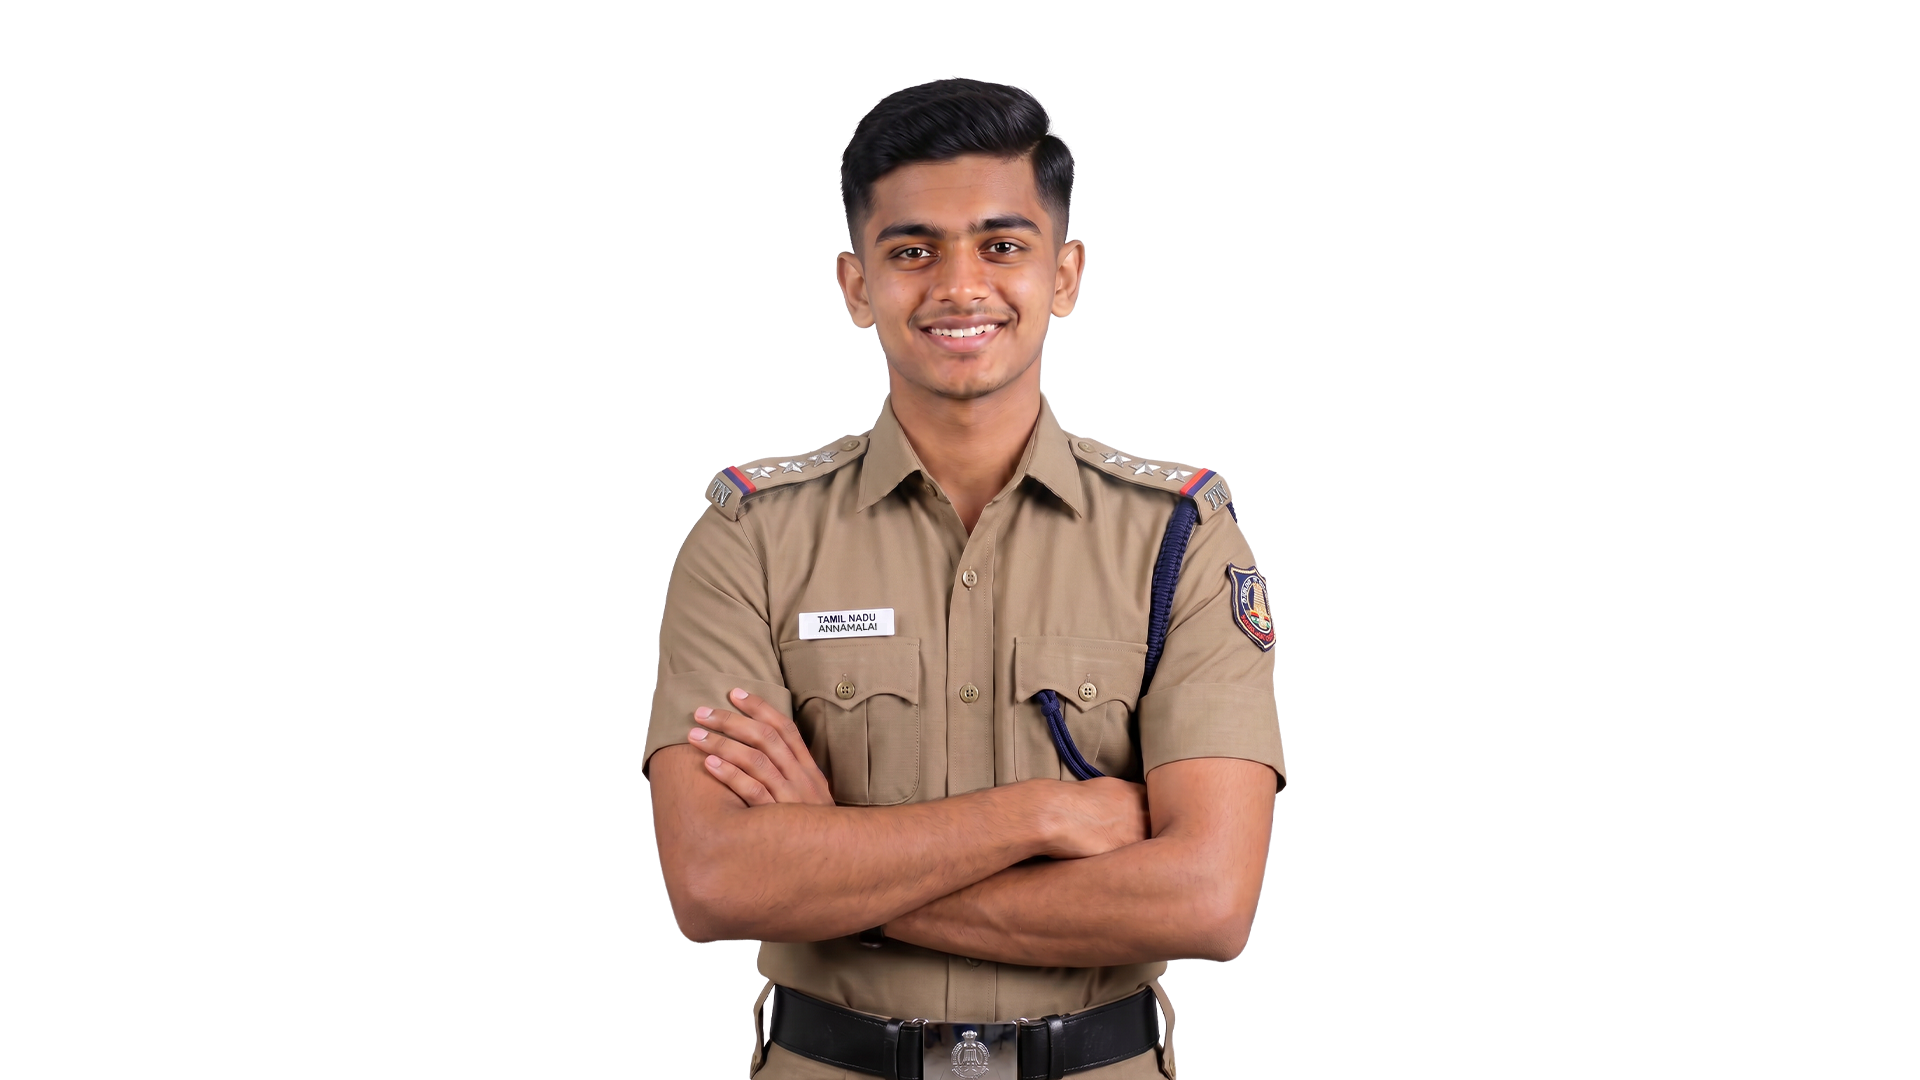
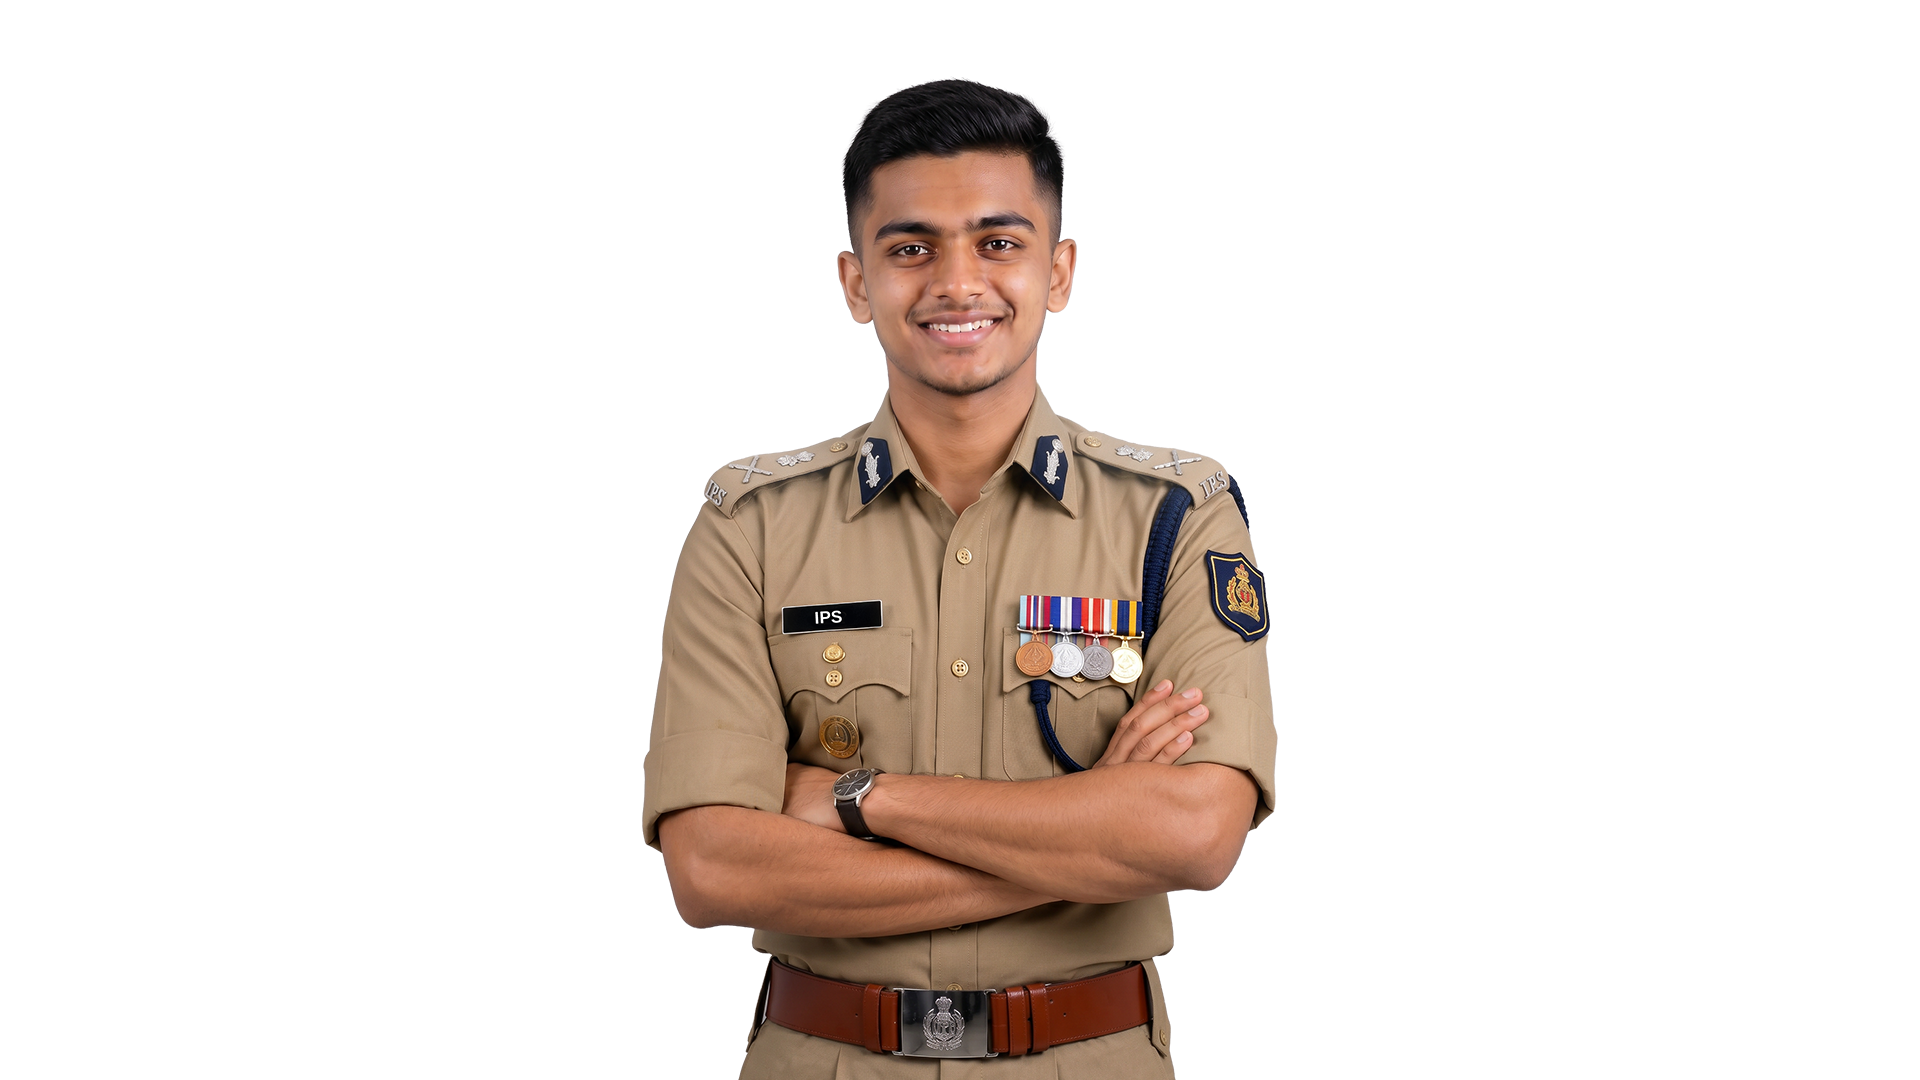
spelling correction and fixing redirects

Changed region(s): [[0.3125, 0.0611, 0.6875, 1.0]]

diff --git a/src/components/About/Founders.tsx b/src/components/About/Founders.tsx
@@ -42,7 +42,7 @@ const Founders = () => {
         {/* Asymmetric Alternating Card Grid */}
         <div className="grid md:grid-cols-2 gap-12 lg:gap-16 max-w-5xl mx-auto items-start pt-6">
 
-          {/* Founder 1 - Dr. P. Annamalai */}
+          {/* Founder 1 - Dr P. Annamalai */}
           <motion.div
             initial={{ opacity: 0, y: 40 }}
             whileInView={{ opacity: 1, y: 0 }}
@@ -55,7 +55,7 @@ const Founders = () => {
               <div className="w-full h-full rounded-[24px] overflow-hidden relative">
                 <img
                   src={FounderImage}
-                  alt="Dr. P. Annamalai, IAS., PhD."
+                  alt="Dr P. Annamalai, IAS., PhD."
                   className="w-full h-full object-cover object-top transition-all duration-1000 scale-100 group-hover:scale-[1.03]"
                   referrerPolicy="no-referrer"
                 />
@@ -64,9 +64,9 @@ const Founders = () => {
 
               {/* Identity Footer Contextual Blocks */}
               <div className="absolute bottom-8 left-8 right-8 text-white">
-                <div className="text-[9px] font-mono tracking-[0.25em] text-blue-300 uppercase mb-1.5 font-bold">FOUNDER & CO-PROMOTER</div>
+                <div className="text-[9px] font-mono tracking-[0.25em] text-blue-300 uppercase mb-1.5 font-bold">Chairman of Dr P.Annamalai IAS Academy </div>
                 <h3 className="text-xl sm:text-2xl font-display font-medium tracking-tight">
-                  Dr. P. Annamalai, <span className="font-serif italic font-normal text-white/90 text-lg sm:text-xl">IAS., PhD.</span>
+                  Dr P. Annamalai, <span className="font-serif italic font-normal text-white/90 text-lg sm:text-xl">IAS., PhD.</span>
                 </h3>
               </div>
             </div>
@@ -74,7 +74,7 @@ const Founders = () => {
             {/* Text Bio */}
             <div className="mt-6 px-3 space-y-3">
               <p className="text-gray-500 font-light text-sm leading-relaxed">
-                A distinguished civil servant from Tamil Nadu bringing deep expertise in governance, policy, and public administration[cite: 30]. With a strong commitment to mentoring aspirants, he focuses heavily on building conceptual clarity and a disciplined approach to cracking the UPSC examination.
+                A distinguished civil servant from Tamil Nadu bringing deep expertise in governance, policy, and public administration. With a strong commitment to mentoring aspirants, he focuses heavily on building conceptual clarity and a disciplined approach to cracking the UPSC examination.
               </p>
               <div className="h-[1px] w-12 bg-[#1E40AF]/40 transition-all duration-500 group-hover:w-20" />
             </div>
@@ -102,7 +102,7 @@ const Founders = () => {
 
               {/* Identity Footer Contextual Blocks */}
               <div className="absolute bottom-8 left-8 right-8 text-white">
-                <div className="text-[9px] font-mono tracking-[0.25em] text-blue-300 uppercase mb-1.5 font-bold">CO-PROMOTER & MENTOR</div>
+                <div className="text-[9px] font-mono tracking-[0.25em] text-blue-300 uppercase mb-1.5 font-bold">C.E.O of Dr P.Annamalai IAS Academy</div>
                 <h3 className="text-xl sm:text-2xl font-display font-medium tracking-tight">
                   Mr. C. Kamaraj, <span className="font-serif italic font-normal text-white/90 text-lg sm:text-xl">IAS.</span>
                 </h3>

diff --git a/src/components/Home/Hero.tsx b/src/components/Home/Hero.tsx
@@ -26,7 +26,7 @@ const Hero = ({ onViewCourses, onEnrollNow }: HeroProps) => {
                 Established Excellence since 2008
               </div>
               <h1 className="text-5xl md:text-[80px] leading-[0.95] font-display text-dark font-normal mb-8">
-                Dr. P. Annamalai <br/>
+                Dr P. Annamalai <br/>
                 <span className="italic text-primary font-serif">IAS Academy</span>
               </h1>
               <p className="text-base md:text-lg text-gray-500 leading-relaxed max-w-lg mb-12 font-light">
@@ -84,19 +84,24 @@ const Hero = ({ onViewCourses, onEnrollNow }: HeroProps) => {
         <div className="max-w-[1440px] mx-auto px-6 sm:px-12 xl:px-[120px] w-full grid grid-cols-2 md:grid-cols-4 divide-x divide-gray-150/50">
           <div className="p-6 md:p-8 flex flex-col space-y-1.5 group hover:bg-gray-50/50 transition-colors">
             <span className="text-[9px] uppercase tracking-[0.25em] text-gray-400 font-bold">Location</span>
-            <span className="text-xs md:text-sm font-semibold text-dark">Anna Nagar, Chennai</span>
+            <span className="text-xs md:text-sm font-semibold text-dark">Plot 12&13, Main road,
+              Anthony Nagar Main Road,
+              Kolathur, Chennai - 600099</span>
           </div>
           <div className="p-6 md:p-8 flex flex-col space-y-1.5 group hover:bg-gray-50/50 transition-colors">
             <span className="text-[9px] uppercase tracking-[0.25em] text-gray-400 font-bold">Next Batch</span>
-            <span className="text-xs md:text-sm font-semibold text-dark">September 15, 2024</span>
+            <span className="text-xs md:text-sm font-semibold text-dark">June 1, 2026</span>
           </div>
           <div className="p-6 md:p-8 flex flex-col space-y-1.5 group hover:bg-gray-50/50 transition-colors">
             <span className="text-[9px] uppercase tracking-[0.25em] text-gray-400 font-bold">Students</span>
-            <span className="text-xs md:text-sm font-semibold text-dark">5,000+ Enrolled</span>
+            <span className="text-xs md:text-sm font-semibold text-dark">500+ Enrolled</span>
           </div>
-          <div className="p-6 md:p-8 flex flex-col space-y-1.5 bg-[#1E40AF] text-white hover:bg-blue-800 transition-colors cursor-pointer select-none">
+          <div 
+            onClick={() => window.open("https://wa.me/918015390090", "_blank", "noopener,noreferrer")}
+            className="p-6 md:p-8 flex flex-col space-y-1.5 bg-[#1E40AF] text-white hover:bg-blue-800 transition-colors cursor-pointer select-none"
+          >
             <span className="text-[9px] uppercase tracking-[0.25em] text-blue-200 font-bold">Call for Inquiry</span>
-            <span className="text-xs md:text-sm font-semibold">+91 98450 12345</span>
+            <span className="text-xs md:text-sm font-semibold">+91 80153 90090</span>
           </div>
         </div>
       </div>

diff --git a/src/components/common component/Footer.tsx b/src/components/common component/Footer.tsx
@@ -33,10 +33,10 @@ const Footer = () => {
           </video>
           
           <div className="footer-logo flex items-center gap-3 relative z-10">
-            <img src={whitelogoImg} alt="Dr. P. Annamalai IAS Academy Logo" className="h-12 w-auto object-contain drop-shadow-sm" />
+            <img src={whitelogoImg} alt="Dr P. Annamalai IAS Academy Logo" className="h-12 w-auto object-contain drop-shadow-sm" />
             <div className="flex flex-col">
               <span className="text-[13px] font-black uppercase text-white tracking-[0.12em] leading-none">
-                Dr. P. Annamalai
+                Dr P. Annamalai
               </span>
               <span className="text-[9px] font-bold uppercase text-white/80 tracking-[0.26em] mt-1 leading-none">
                 IAS Academy
@@ -79,7 +79,7 @@ const Footer = () => {
           {/* Floating Badge */}
           <div className="footer-lucky-graphic absolute -top-9 right-10 z-10 flex flex-col items-start gap-1.5">
             <div className="lucky-cube w-24 h-24 rounded-[22px] -rotate-[10deg] bg-gradient-to-br from-[#5b9ffb] via-[#1e5dd7] to-[#1448be] shadow-[inset_3px_3px_8px_rgba(255,255,255,0.35),inset_-3px_-3px_12px_rgba(0,0,0,0.18),8px_14px_28px_rgba(20,72,200,0.35)] flex items-center justify-center">
-              <img src={whitelogoImg} alt="Dr. P. Annamalai IAS Academy Logo" className="w-14 h-14 object-contain rotate-[10deg] drop-shadow-[0_2px_5px_rgba(0,0,0,0.2)]" />
+              <img src={whitelogoImg} alt="Dr P. Annamalai IAS Academy Logo" className="w-14 h-14 object-contain rotate-[10deg] drop-shadow-[0_2px_5px_rgba(0,0,0,0.2)]" />
             </div>
             <div className="lucky-text-row flex items-center gap-1.5 -rotate-1 mt-1">
               <svg className="w-5.5 h-5.5 text-[#9ca3af]" viewBox="0 0 24 24" fill="none" stroke="currentColor" strokeWidth="2" strokeLinecap="round" strokeLinejoin="round">
@@ -127,7 +127,7 @@ const Footer = () => {
 
           <div className="footer-bottom flex flex-col sm:flex-row items-end justify-between mt-12 gap-8 sm:gap-0">
             <p className="footer-copyright font-dmsans text-[12.5px] font-medium text-[#9ca3af] leading-relaxed">
-              © 2025 Dr. P. Annamalai IAS Academy. All rights reserved.<br />
+              © 2025 Dr P. Annamalai IAS Academy. All rights reserved.<br />
               Designed and developed by{" "}
               <a
                 href="https://www.instagram.com/behind_brief?utm_source=ig_web_button_share_sheet&igsh=ZDNlZDc0MzIxNw=="

diff --git a/src/components/Gallery/index.tsx b/src/components/Gallery/index.tsx
@@ -90,7 +90,7 @@ const GalleryContent = () => {
       category: "test-series",
       date: "Saturdays & Wednesdays",
       badge: "Mains Optional Program",
-      description: "Comprehensive guidance program tailored under Dr. P. Annamalai's methodology. Includes evaluation on classical poems, dramas, and contemporary novels.",
+      description: "Comprehensive guidance program tailored under Dr P. Annamalai's methodology. Includes evaluation on classical poems, dramas, and contemporary novels.",
       mode: "Offline Only",
       venueOrPlatform: "Main Seminar Boardroom, Chennai HQ",
       timeLine: "Starting from 02:00 PM",
@@ -154,7 +154,7 @@ const GalleryContent = () => {
       category: "special-events",
       date: "First Sunday of June, 2026",
       badge: "Admits & Fee Waivers",
-      description: "Our state-wide merit examination. Exceptional achievers qualify for full tuition and residential program scholarships at Dr. P. Annamalai IAS Academy.",
+      description: "Our state-wide merit examination. Exceptional achievers qualify for full tuition and residential program scholarships at Dr P. Annamalai IAS Academy.",
       mode: "Offline & Online",
       venueOrPlatform: "State-wide partner centers & Proctored Portal",
       timeLine: "Registrations closing in 4 Days",
@@ -281,7 +281,7 @@ const GalleryContent = () => {
         {/* Quick Help Callout */}
         <div className="mt-16 p-6 rounded-2xl border border-blue-100/60 bg-blue-50/20 text-center">
           <p className="text-xs text-blue-900 font-light">
-            💡 <strong>Note about mock events:</strong> All mock exams are curated by the core evaluation cell of Dr. P. Annamalai IAS Academy. If you encounter issues accessing the proctored test portal, please phone our direct helpline immediately.
+            💡 <strong>Note about mock events:</strong> All mock exams are curated by the core evaluation cell of Dr P. Annamalai IAS Academy. If you encounter issues accessing the proctored test portal, please phone our direct helpline immediately.
           </p>
         </div>
 

diff --git a/src/components/Home/Testimonial.tsx b/src/components/Home/Testimonial.tsx
@@ -13,14 +13,14 @@ interface Testimonial {
 const TestimonialsSection = () => {
   const allTestimonials: Testimonial[] = [
     {
-      quote: "The personalized coaching and rigorous feedback loops entirely restructured my mains writing pattern. Dr. P. Annammalai's personal insight into GS Paper IV case studies was the defining edge.",
+      quote: "The personalized coaching and rigorous feedback loops entirely restructured my mains writing pattern. Dr P. Annamalai's personal insight into GS Paper IV case studies was the defining edge.",
       author: "Swathi S.",
       role: "UPSC Civil Services",
       achievement: "Rank 42, UPSC CSE",
       year: "Cohort 25"
     },
     {
-      quote: "The qualitative answer diagnostics here are unmatched. Unlike commercial centers, Dr. Annamalai’s academy treats you as an aspiring administrator whose ethics and logic are actively built day by day.",
+      quote: "The qualitative answer diagnostics here are unmatched. Unlike commercial centers, Dr Annamalai’s academy treats you as an aspiring administrator whose ethics and logic are actively built day by day.",
       author: "Vigneshwaran K.",
       role: "State Services Academy",
       achievement: "Deputy Collector, TNPSC Group I",
@@ -34,7 +34,7 @@ const TestimonialsSection = () => {
       year: "Current Cohort"
     },
     {
-      quote: "Dr. P. Annammalai IAS Academy taught me that the Civil Services is not about rote memory, but absolute clarity of character. Daily feedback sheets helped me pinpoint weak areas in GS III.",
+      quote: "Dr P. Annamalai IAS Academy taught me that the Civil Services is not about rote memory, but absolute clarity of character. Daily feedback sheets helped me pinpoint weak areas in GS III.",
       author: "Ranganathan G.",
       role: "UPSC Civil Services",
       achievement: "IRS Officer, CSE Merit Rank",

diff --git a/src/components/Home/FAQSection.tsx b/src/components/Home/FAQSection.tsx
@@ -12,8 +12,8 @@ const FAQSection = () => {
 
   const faqs: FAQItem[] = [
     {
-      question: "Who are the promoters and mentors of Dr. P. Annamalai IAS Academy?",
-      answer: "The Academy is founded and promoted by two retired IAS officers with more than 30 years of distinguished administrative service and deep experience within the Government of Tamil Nadu. Our core mentorship team includes Dr. P. Annamalai, IAS., PhD., who focuses on conceptual clarity and disciplined UPSC strategies, and Mr. C. Kamaraj, IAS., who specializes in strategic consistency and descriptive answer writing.",
+      question: "Who are the promoters and mentors of Dr P. Annamalai IAS Academy?",
+      answer: "The Academy is founded and promoted by two retired IAS officers with more than 30 years of distinguished administrative service and deep experience within the Government of Tamil Nadu. Our core mentorship team includes Dr P. Annamalai, IAS., PhD., who focuses on conceptual clarity and disciplined UPSC strategies, and Mr. C. Kamaraj, IAS., who specializes in strategic consistency and descriptive answer writing.",
     },
     {
       question: "What specific examination coaching programs are offered under a single roof?",

diff --git a/src/components/About/AboutContent.tsx b/src/components/About/AboutContent.tsx
@@ -85,11 +85,11 @@ const AboutContent: React.FC = () => {
             </div>
 
             <h2 className="text-3xl sm:text-4xl md:text-5xl font-display font-medium text-dark tracking-tight leading-tight pb-5">
-              About Dr. P. Annamalai IAS Academy
+              About Dr P. Annamalai IAS Academy
             </h2>
 
             <p className="text-gray-500 font-light text-sm md:text-base leading-relaxed">
-              Dr. P. Annamalai IAS Academy has been promoted by two retired IAS officers with more than 30 years of distinguished service and deep experience in the field of administration within the Government of Tamil Nadu. We provide specialized, integrated coaching across major competitive streams under a single roof.
+              Dr P. Annamalai IAS Academy has been promoted by two retired IAS officers with more than 30 years of distinguished service and deep experience in the field of administration within the Government of Tamil Nadu. We provide specialized, integrated coaching across major competitive streams under a single roof.
             </p>
           </div>
 

diff --git a/src/components/Home/WhyChooseUs.tsx b/src/components/Home/WhyChooseUs.tsx
@@ -73,7 +73,7 @@ const WhyChooseUs = () => {
             </div>
             <h2 className="text-2xl sm:text-3xl font-display text-white leading-tight">
               Why Choose <br />
-              <span className="font-serif italic text-primary-light font-medium">Dr. P. Annamalai IAS Academy?</span>
+              <span className="font-serif italic text-primary-light font-medium">Dr P. Annamalai IAS Academy?</span>
             </h2>
             <div className="w-16 h-[1px] bg-primary-light/40 mx-auto mt-4"></div>
           </div>
@@ -119,7 +119,7 @@ const WhyChooseUs = () => {
               THE ASPIRANTS CHOICE
             </div>
             <h2 className="text-4xl md:text-6xl font-display text-white tracking-tight leading-tight mt-2 pb-8">
-              Why Choose <span className="font-serif italic font-medium text-primary-light">Dr. P. Annamalai IAS Academy?</span>
+              Why Choose <span className="font-serif italic font-medium text-primary-light">Dr P. Annamalai IAS Academy?</span>
             </h2>
           </motion.div>
         </div>

diff --git a/src/components/Home/FacultySection.tsx b/src/components/Home/FacultySection.tsx
@@ -77,14 +77,14 @@ const FacultySection = () => {
 
   const FACULTY = [
     {
-      name: "Dr.P Annamalai",
-      role: "Chairman of Dr P.Annamalai IAS Academy",
+      name: "Dr P. Annamalai",
+      role: "Chairman of Dr P. Annamalai IAS Academy",
       desc: "15+ years of experience in mentoring over 1,000 successful IAS officers. Expert in General Studies and Strategy.",
       image: Founder ,
     },
     {
       name: "C.Kamaraj IAS(R)",
-      role: "C.E.O of Dr P Annamalai IAS Academy",
+      role: "C.E.O of Dr P. Annamalai IAS Academy",
       desc: "Distinguished historian with a decade of expertise in Indian Culture and World History modules.",
       image: Kamaraj,
     },

diff --git a/src/components/About/Missionvison.tsx b/src/components/About/Missionvison.tsx
@@ -38,7 +38,7 @@ const MissionVision = () => {
             transition={{ duration: 0.6, delay: 0.2 }}
             className="text-gray-500 font-light text-base md:text-lg leading-relaxed max-w-2xl mx-auto mt-4"
           >
-            How Dr. P. Annamalai IAS Academy translates elite administrative expertise into proven milestones across state and central examinations.
+            How Dr P. Annamalai IAS Academy translates elite administrative expertise into proven milestones across state and central examinations.
           </motion.p>
         </div>
 

diff --git a/index.html b/index.html
@@ -3,7 +3,7 @@
   <head>
     <meta charset="UTF-8" />
     <meta name="viewport" content="width=device-width, initial-scale=1.0" />
-    <title>Dr. P. Annamalai IAS Academy</title>
+    <title>Dr P. Annamalai IAS Academy</title>
     <link rel="preconnect" href="https://fonts.googleapis.com" />
     <link rel="preconnect" href="https://fonts.gstatic.com" crossorigin />
     <link href="https://fonts.googleapis.com/css2?family=Anton&family=Inter:wght@400;500;600;700&family=Playfair+Display:ital,wght@0,400..900;1,400..900&display=swap" rel="stylesheet" />

diff --git a/src/components/common component/LoadingScreen.tsx b/src/components/common component/LoadingScreen.tsx
@@ -74,7 +74,7 @@ const LoadingScreen = ({ onFinished }: LoadingScreenProps) => {
             className="text-center relative z-10"
           >
             <span className="text-[11px] font-bold text-gray-400 uppercase tracking-[0.5em] block mb-3.5">
-              DR. P ANNAMALAI IAS ACADEMY
+              DR P. ANNAMALAI IAS ACADEMY
             </span>
             <h2 className="text-2xl md:text-3.5xl font-display text-gray-800 tracking-wide font-normal italic">
               "Your journey begins here."
